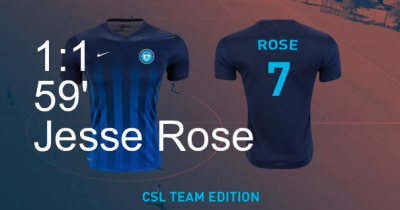
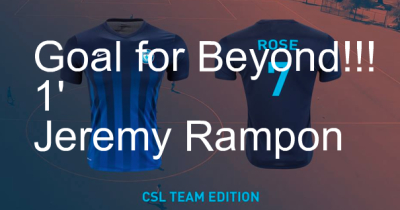
updated server.js to allow for media posts to twitter and added jimp to create custom image

diff --git a/server.js b/server.js
@@ -5,10 +5,13 @@ var express = require('express');
 var mongoose = require('mongoose');
 var bodyParser = require('body-parser');
 var Team = require('./model/teams');
+var Jimp = require ('jimp');
 
 // import twitter dependencies
 var dotenv = require('dotenv');
 var Twit = require('twit');
+var fs = require('fs');
+// var path = require('path');
 dotenv.config();
 
 // create instances
@@ -57,31 +60,77 @@ router.get('/', function(req, res) {
 
 
 ///////////////////////// twitter ///////////////////////////////
+// post a tweet
+//
+// app.post('/api/tweet', (req, res) => {
+//   console.log({ origin: req.headers, body: req.body });
+//
+//   const tweet = `${req.body.tweet} ${Math.random()}`;
+//
+//   twitter.post('statuses/update', { status: tweet }, (err, data, response) => {
+//       if (err) throw Error(err);
+//     // console.log({ data, response });
+//     //
+//     // res.header('Content-Type', 'application/json');
+//     // res.json(JSON.stringify({ tweet, success: true }));
+//   });
+// });
 
-app.get('/api/tweet', (req, res) => {
-  console.log({ origin: req.headers, body: req.body });
-  const tweet = `Hello ${Math.random()}`;
 
-  twitter.post('statuses/update', { status: tweet }, (err, data, response) => {
-    if (err) throw Error(err);
-    console.log({ data, response });
-
-    res.header('Content-Type', 'application/json');
-    res.json(JSON.stringify({ tweet, success: true }));
-  });
-});
 
 app.post('/api/tweet', (req, res) => {
   console.log({ origin: req.headers, body: req.body });
-  const tweet = `${req.body.tweet} ${Math.random()}`;
 
-  twitter.post('statuses/update', { status: tweet }, (err, data, response) => {
-      if (err) throw Error(err);
-    console.log({ data, response });
+  // create jimp image
+  const savedImagePath = "./public/BFC_CSL_Jerseys_new.jpg";
+  const jimpData = req.body.jimpData;
+  const scorer = jimpData.scorer;
+  const min = jimpData.min;
+  const teamBFC = jimpData.teamBFC;
+  const headline = `Goal for Beyond!!!`
 
-    res.header('Content-Type', 'application/json');
-    res.json(JSON.stringify({ tweet, success: true }));
+  Jimp.read("./public/BFC_CSL_Jerseys.png", function (err, img) {
+      if (err) throw err;
+      Jimp.loadFont( Jimp.FONT_SANS_64_WHITE ).then(function (font) { // load font from .fnt file
+      img.print(font, 50, 50, headline)
+      img.print(font, 50, 110, min)
+      img.print(font, 50, 170, scorer)
+      img.scaleToFit( 400, 400)
+            .write(savedImagePath); // save
+      // image.print(font, x, y, str, width); // print a message on an image with text wrapped at width
   });
+  });
+
+
+  // post a tweet with media
+
+  // var b64content = fs.readFileSync('./public/goal.png', { encoding: 'base64' })
+  // var imagePath = req.body.imagePath
+  var b64content = fs.readFileSync(savedImagePath, { encoding: 'base64' })
+
+  // first we must post the media to Twitter
+  twitter.post('media/upload', { media_data: b64content }, function (err, data, response) {
+    // now we can assign alt text to the media, for use by screen readers and
+    // other text-based presentations and interpreters
+    var mediaIdStr = data.media_id_string
+    var altText = "BFC game updates"
+    var meta_params = { media_id: mediaIdStr, alt_text: { text: altText } }
+
+    twitter.post('media/metadata/create', meta_params, function (err, data, response) {
+      if (!err) {
+        // now we can reference the media and post a tweet (media will attach to the tweet)
+
+        const tweet = `${req.body.tweet} ${Math.random()}`;
+        var params = { status: tweet, media_ids: [mediaIdStr] }
+
+        twitter.post('statuses/update', params, (err, data, response) => {
+          console.log(data)
+          if (err) throw Error(err);
+        });
+      }
+    })
+  })
+
 });
 
 

diff --git a/src/App.js b/src/App.js
@@ -193,8 +193,14 @@ loadTeamsFromServer() {
     updatePlayer(roster, playerGoals.push(this.state.timeLive))
     this.setState({ roster })
 
-    const tweetKey = "BFCTeamScored"
-    this.triggerTweet(tweetKey, player);
+    const tweetKey = "playerScored";
+    const scorer = `${player.firstName} ${player.lastName}`;
+    const scorerHandle = "@twitterHandle"
+    const min = (Math.ceil(this.state.timeLive / 60)) + "'";
+    const teamBFC = this.state.teamBFC;
+    const teamOPP = this.state.teamOPP;
+    this.triggerTweet(tweetKey, scorer, scorerHandle, min, teamBFC, teamOPP);
+    console.log(player, scorer);
 
     this.addGoalBFC();
     this.snapGoalsBFC(player, event);
@@ -250,27 +256,6 @@ loadTeamsFromServer() {
     } else {
         this.setState({ oppScore: score + 1 })
 
-        // // const urlParams = new URLSearchParams(window.location.search);
-        //
-        // // const tweet = urlParams.get('tweet') || 'The opponent has scored a goal!';
-        // const tweet = `${this.state.teamOPP} has scored a goal!`;
-        //
-        //
-        // // const backend = 'https://nodejavascript.herokuapp.com';
-        // const backend = 'http://localhost:3100';
-        // fetch(`${backend}/api/tweet`, {
-        //   method: 'POST',
-        //   mode: 'cors',
-        //
-        //   headers: new Headers({
-        //     'Accept': 'application/json',
-        //     'Content-Type': 'application/json'
-        //   }),
-        //
-        //   body: JSON.stringify({ tweet })
-        // }).then(response => response.json()).then((data) => {
-        //   console.log({ data });
-        // });
         const tweetKey = "opponentScored"
         this.triggerTweet(tweetKey);
 
@@ -284,10 +269,12 @@ loadTeamsFromServer() {
 // const urlParams = new URLSearchParams(window.location.search);
 
 // const tweet = urlParams.get('tweet') || 'The opponent has scored a goal!';
-triggerTweet(tweetKey, player) {
+triggerTweet(tweetKey, scorer, scorerHandle, min, teamBFC, teamOPP) {
 
-    // const tweet = `${this.state.teamOPP} has scored a goal!`;
-    const tweet = Tweets[tweetKey];
+  // const tweet = `${this.state.teamOPP} has scored a goal!`;
+  const tweet = Tweets(tweetKey, scorer, scorerHandle, min, teamBFC, teamOPP);
+  const jimpData = {tweetKey, scorer, scorerHandle, min, teamBFC, teamOPP}
+  const imagePath = './public/field.png'
 
   // const backend = 'https://nodejavascript.herokuapp.com';
   const backend = 'http://localhost:3100';
@@ -300,7 +287,7 @@ triggerTweet(tweetKey, player) {
       'Content-Type': 'application/json'
     }),
 
-    body: JSON.stringify({ tweet })
+    body: JSON.stringify({ tweet, imagePath, jimpData })
   }).then(response => response.json()).then((data) => {
     console.log({ data });
   });

diff --git a/src/data/tweets.js b/src/data/tweets.js
@@ -1,6 +1,7 @@
 
 
-export const Tweets = {
+export const Tweets = (tweetKey, scorer, scorerHandle, min, teamBFC, teamOPP) => ({
     opponentScored: 'The opponent scored a goal. More details to follow...',
-    BFCTeamScored: `Beyond F.C. scores again. Thanks ${player}`
-  }
+    BFCTeamScored: `Beyond F.C. scores again.`,
+    playerScored: `${scorer} ${scorerHandle} scores for ${teamBFC} against ${teamOPP} in the ${min} min of the game.`
+  }[tweetKey]);
